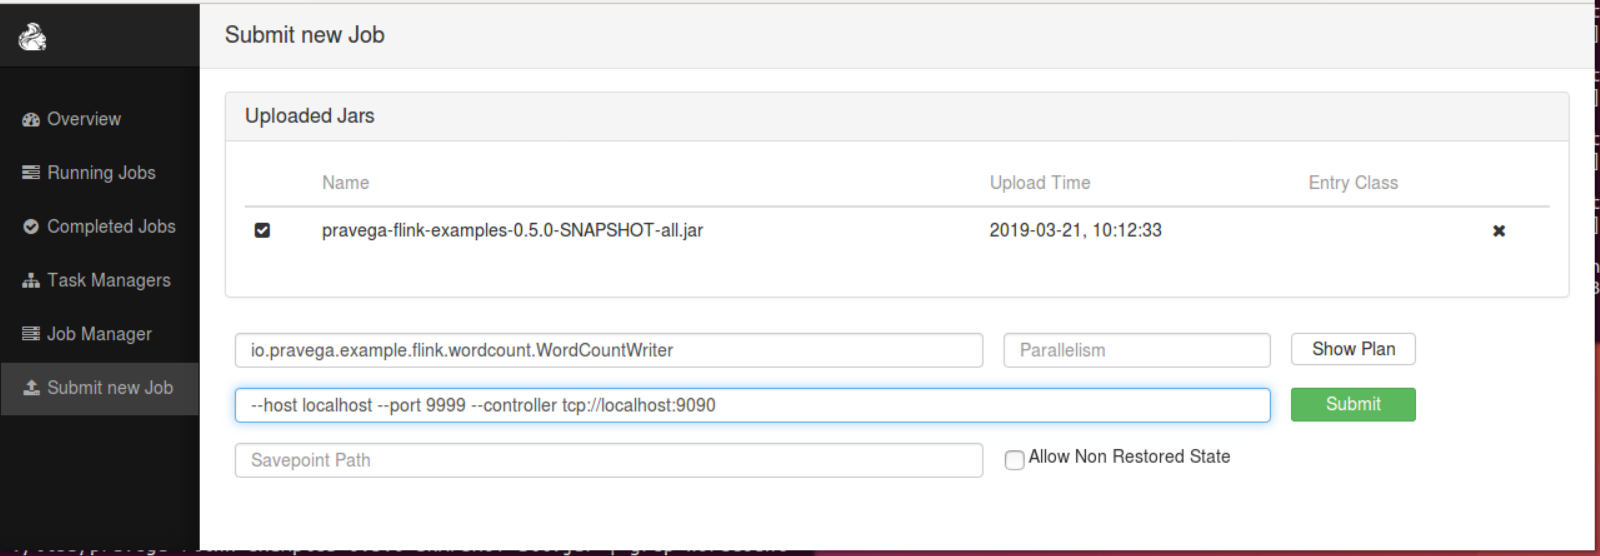
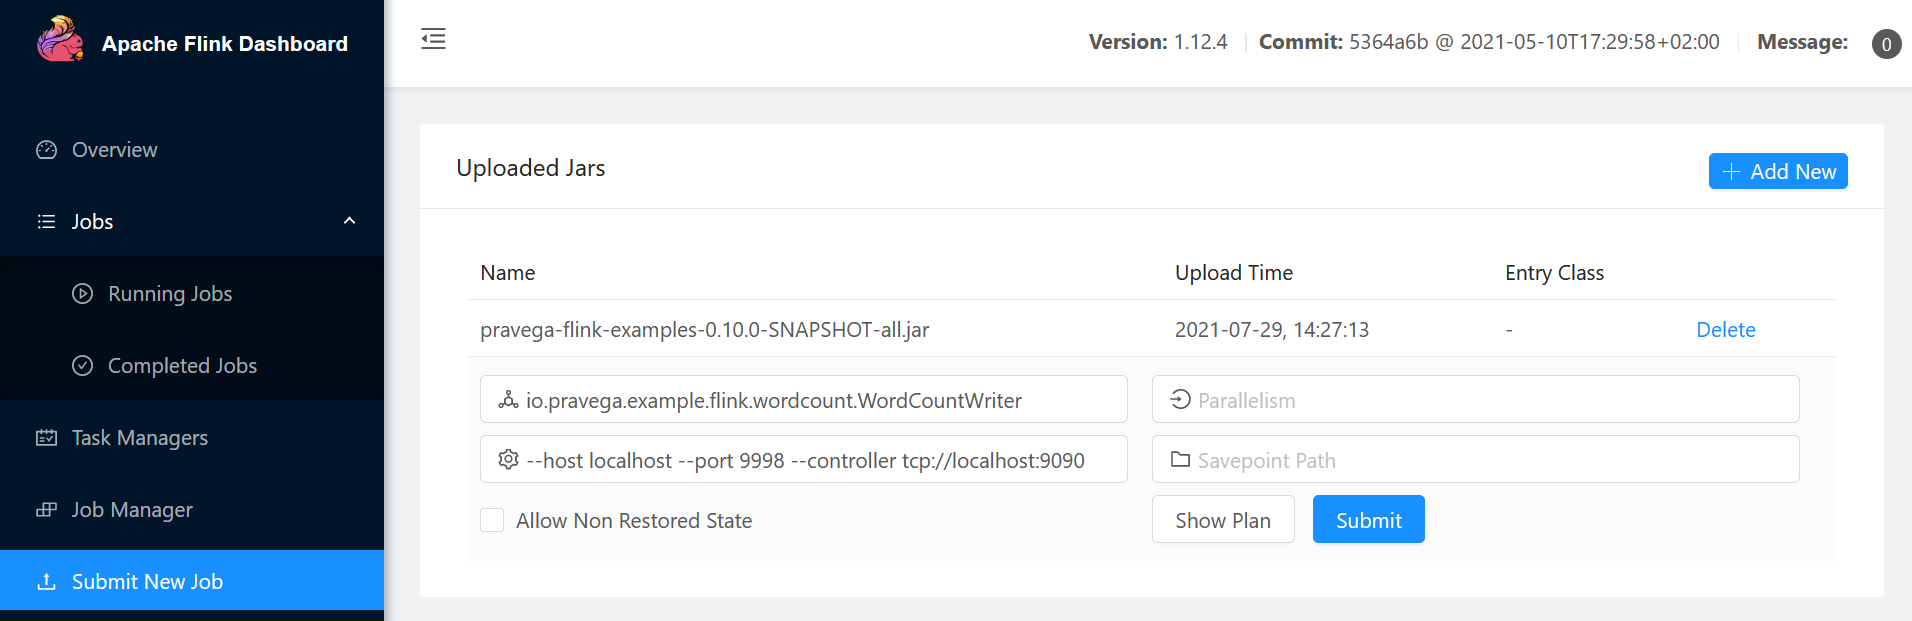
Issue 297: Update hyperlink that redirects to install and start Flink (#298)
Update the hyperlink that redirects to start Flink instruction.

diff --git a/flink-connector-examples/doc/flink-wordcount/README.md b/flink-connector-examples/doc/flink-wordcount/README.md
@@ -31,7 +31,7 @@ All args are optional, if not specified, the defaults are:
  * stream - "wordcount"
  * controller - "tcp://localhost:9090"
 
-### Start WordCountReader
+## Start WordCountReader
 The application reads data from a Pravega stream and prints the data.
 ```
 $ bin/wordCountReader [-scope examples] [-stream wordcount] [-controller tcp://localhost:9090]
@@ -58,7 +58,7 @@ In the windows where `WordCountReader` is running, it should show output similar
 
 ### Start Flink
 
-Follow the instruction [here](https://ci.apache.org/projects/flink/flink-docs-release-1.4/quickstart/setup_quickstart.html) to download and start Flink. 
+Follow the instruction [here](https://ci.apache.org/projects/flink/flink-docs-stable/docs/deployment/resource-providers/standalone/overview/) to download and start Flink.
 
 Suppose Flink is installed at /usr/share/flink. Before starting Flink you will need to edit /usr/share/flink/conf/flink-conf.yaml to increase the number of task slots, for example, 4.
 ```
@@ -67,31 +67,41 @@ taskmanager.numberOfTaskSlots: 4
 
 By default, Flink job manager rest API runs on port 8081 to receive job submission, and it is configurable via `rest.port`.
 
-Point your browser to `http://<your_flink_host>:8081` to make sure Flink is running; then click "Running Jobs"
+Point your browser to `http://<your_flink_host>:8081` to make sure Flink is running, then click "Running Jobs".
 
 ### Start WordCountWriter
+
+```bash
+$ cd flink-connector-examples/build/install/pravega-flink-examples
+$ flink run -c io.pravega.example.flink.wordcount.WordCountWriter lib/pravega-flink-examples-<VERSION>-all.jar --host localhost --port 9999 --controller tcp://localhost:9090
 ```
-$ cd flink-examples/build/install/pravega-flink-examples
-$ flink run -m localhost:8081 -c io.pravega.example.flink.wordcount.WordCountWriter lib/pravega-flink-examples-0.2.0-SNAPSHOT-all.jar --host localhost --port 9999 --controller tcp://localhost:9090
-```
+
 The `WordCountWriter` job should show up on the Flink UI as a running job.
 
 ### Start WordCountReader
+
 In a different window:
+
+```bash
+$ cd flink-connector-examples/build/install/pravega-flink-examples
+$ flink run -c io.pravega.example.flink.wordcount.WordCountReader lib/pravega-flink-examples-<VERSION>-all.jar --controller tcp://localhost:9090
 ```
-$ cd flink-examples/build/install/pravega-flink-examples
-$ flink run -m localhost:8081 -c io.pravega.example.flink.wordcount.WordCountReader lib/pravega-flink-examples-0.2.0-SNAPSHOT-all.jar --controller tcp://localhost:9090
-```
+
 The `WordCountReader` job should show up on the Flink UI as a running job.
 
 ### View Output
 Now in the windows where `netcat` is running, enter some text, for example,
-```
+
+```bash
 $ nc -lk 9999
 aa bb cc aa
 ```
 
 Output similar to the sample below should show up in a flink taskmanager output file, e.g., flink-ubuntu-taskmanager-0-myhostname.out, in the flink log directory, e.g., /usr/share/flink/log
+
+The output is also available in the UI. Follow the path `Task Managers` -> `the task manager` -> `Stdout`.
+You should see the output in the textarea.
+
 ```
 Word: aa:  Count: 2
 Word: cc:  Count: 1
@@ -105,13 +115,13 @@ You can also submit flink jobs via Flink UI.
 Submit `WordCountWriter` job
 
 - Click **Submit new Job**
-- Click **Add New** button
-- Browser to flink-examples/build/install/pravega-flink-examples/lib and select the uber jar file: pravega-flink-examples-0.2.0-SNAPSHOT-**all**.jar
-- Click **Upload** button
-- Click the checkbox next to the uploaded jar file.
+- Click the **Add New** button
+- Browser to `flink-connector-examples/build/install/pravega-flink-examples/lib` and select the uber jar file: `pravega-flink-examples-<VERSION>-**all**.jar`
+- Click the **Upload** button
+- Click the uploaded jar file
 - In the **Entry Class** field, enter: ```io.pravega.example.flink.wordcount.WordCountWriter```
 - In the **Program Arguments** field, enter: ```--host localhost --port 9999 --controller tcp://localhost:9090```
-- Click **Submit** button
+- Click the **Submit** button
 
 ![](image/flink-wordcount-submit-writer.png)
 
@@ -135,7 +145,6 @@ Repeat the steps above except
 
 - Run Configuration for `WordCountWriter`
 ![](image/flink-wordcount-intellij-04.png)
-
 
 ## Contributors ##
 * [Kartik Vandra](https://github.com/kvandra)   <img src="https://avatars3.githubusercontent.com/u/5042709?s=460&v=4" width="30" height="30">

diff --git a/flink-connector-examples/doc/watermark/README.md b/flink-connector-examples/doc/watermark/README.md
@@ -1,10 +1,10 @@
 # Pravega Watermark Flink Example 
 
 ## Event time and Watermark Introduction
-Flink offers [event-time characteristic](https://ci.apache.org/projects/flink/flink-docs-stable/dev/event_time.html).
+Flink offers [event-time characteristic](https://ci.apache.org/projects/flink/flink-docs-stable/docs/dev/datastream/event-time/generating_watermarks/).
 The mechanism in Flink to measure progress in event time is watermarks.
 Watermarks flow as part of the data stream and carry a timestamp `t`.
-A `Watermark(t)` declares that event time has reached time `t` in that stream, meaning that there should be no more elements from the stream with a timestamp `t’` <= `t` 
+A `Watermark(t)` declares that event time has reached time `t` in that stream, meaning that there should be no more elements from the stream with a timestamp `t'` <= `t` 
 (i.e. events with timestamps older or equal to the watermark).
 
 Pravega has innovated a strategy to generate the watermark within the stream in 0.6 release.
@@ -42,7 +42,7 @@ You can run it recursively by reusing the result of the smaller window.
 ## How to run the application and verify
 The scripts can be found under the flink-examples directory in:
 ```
-flink-connector-examples/build/install/pravega-flink-examples/bin
+$ cd flink-connector-examples/build/install/pravega-flink-examples/bin
 ```
 
 Start the `PravegaWatermarkIngestion` app in one window by
@@ -99,4 +99,4 @@ For a better knowledge about event time and watermarks, the following articles c
 - [Streaming 101](https://www.oreilly.com/ideas/the-world-beyond-batch-streaming-101) by Tyler Akidau
 - The [Dataflow Model paper](https://research.google.com/pubs/archive/43864.pdf)
 - Flink introductions for [event time](https://ci.apache.org/projects/flink/flink-docs-stable/dev/event_time.html).
-- Pravega design detail [PDP-33](https://github.com/pravega/pravega/wiki/PDP-33:-Watermarking)
+- Pravega design detail [PDP-33](https://github.com/pravega/pravega/wiki/PDP-33-%28Watermarking%29)

diff --git a/flink-connector-examples/README.md b/flink-connector-examples/README.md
@@ -5,24 +5,19 @@ system for Apache Flink.
 ## Pre-requisites
 1. Pravega running (see [here](http://pravega.io/docs/latest/getting-started/) for instructions)
 2. Build [pravega-samples](https://github.com/pravega/pravega-samples) repository
-3. Apache Flink running
-
+3. Apache Flink 1.12 running
 
 ## Distributing Flink Samples
 Use gradle to assemble a distribution folder containing the Flink programs as a ready-to-deploy 
 uber-jar called `pravega-flink-examples-<VERSION>-all.jar`:
 
-```
+```bash
 $ ./gradlew installDist
 ...
-$ ls -R flink-connector-examples/build/install/pravega-flink-examples
-bin	lib
-
-flink-connector-examples/build/install/pravega-flink-examples/bin:
-run-example
-
-flink-connector-examples/build/install/pravega-flink-examples/lib:
-pravega-flink-examples-VERSION-all.jar
+$ ls flink-connector-examples/build/install/pravega-flink-examples/lib
+...
+pravega-flink-examples-<VERSION>-all.jar
+...
 ```
 
 ---

diff --git a/flink-connector-examples/doc/exactly-once/README.md b/flink-connector-examples/doc/exactly-once/README.md
@@ -35,11 +35,13 @@ Snippets of output shown below:
 ```
 ......
 
+Start checkpointing at position -1
 Start checkpointing at position 16
 Complete checkpointing at position 16
 Artificial failure at position 26
-05/02/2018 17:02:02	Source: Custom Source -> Map(1/1) switched to FAILED 
-io.pravega.examples.flink.primer.util.FailingMapper$IntentionalException: artificial failure
+Start checkpointing at position 24
+14:49:29,061 WARN  org.apache.flink.runtime.taskmanager.Task                     - Source: Custom Source -> Map (1/1)#0 (e6b800f2f4df24ee86f699dc83847f96) switched from RUNNING to FAILED.
+io.pravega.example.flink.primer.util.FailingMapper$IntentionalException: artificial failure
 
 ......
 

diff --git a/scenarios/anomaly-detection/README.md b/scenarios/anomaly-detection/README.md
@@ -35,7 +35,7 @@ The following diagram depicts the state machine used in this example.
 ## Pre-requisites
 1. Pravega running (see [here](http://pravega.io/docs/latest/getting-started/) for instructions)
 2. Build [pravega-samples](https://github.com/pravega/pravega-samples) repository
-3. Apache Flink running
+3. Apache Flink 1.12 running
 4. ELK running (optional)
 
 ## Execution

diff --git a/scenarios/turbine-heat-processor/README.md b/scenarios/turbine-heat-processor/README.md
@@ -9,7 +9,7 @@ Automatically creates a scope (default: `examples`) and stream (default: `turbin
 ## Pre-requisites
 1. Pravega running (see [here](http://pravega.io/docs/latest/getting-started/) for instructions)
 2. Build [pravega-samples](https://github.com/pravega/pravega-samples) repository
-3. Apache Flink running
+3. Apache Flink 1.12 running
 
 
 ## Execution

diff --git a/scenarios/pravega-flink-connector-sql-samples/README.md b/scenarios/pravega-flink-connector-sql-samples/README.md
@@ -10,6 +10,7 @@ https://s3.amazonaws.com/nyc-tlc/misc/taxi+_zone_lookup.csv
 ## Pre-requisites
 1. Pravega running (see [here](http://pravega.io/docs/latest/getting-started/) for instructions)
 2. Build [pravega-samples](https://github.com/pravega/pravega-samples) repository
+3. Apache Flink 1.12 running
 
 ## Running the samples
 
